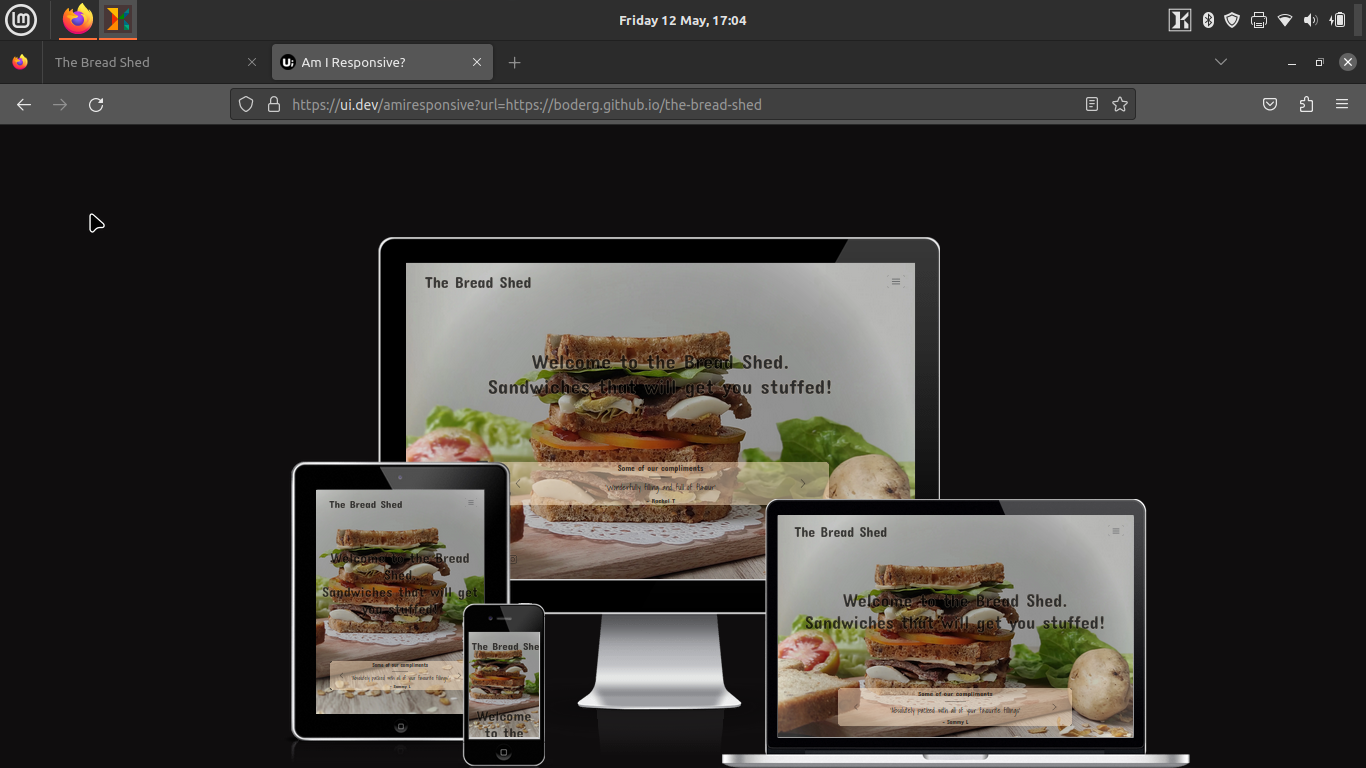
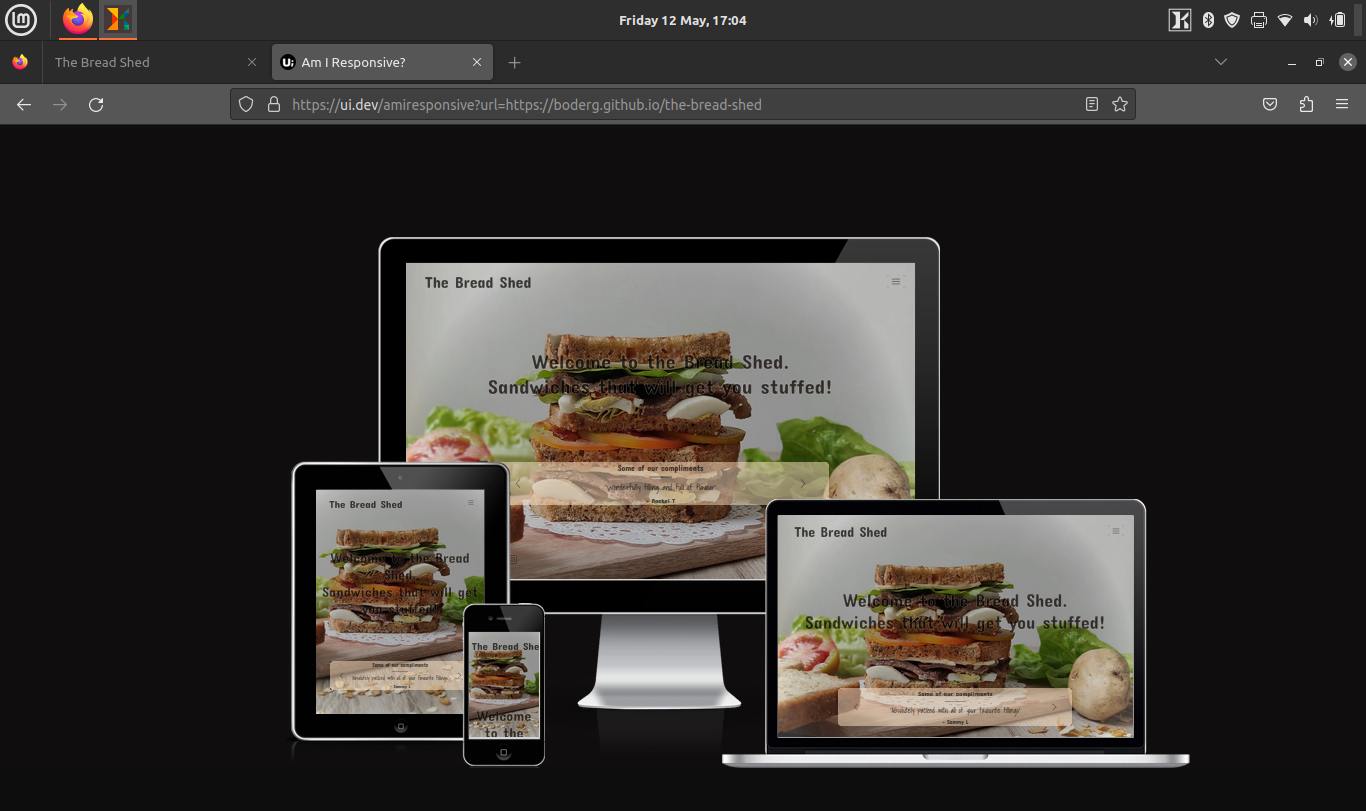
Add overview and screenshots to readme

diff --git a/README.md b/README.md
@@ -1,5 +1,14 @@
 # THE BREAD SHED
 
+- The Bread Shed is sandwich shop that sells homemade sandwiches along with snacks and drinks. 
+- It is a place where anyone can grab a quick bite to eat for breakfast or lunch during their day. 
+- The site is designed so that customers can view the menu and make a decision on what they might like to eat or drink before they arrive at the shop. 
+- The customer can also phone their order through so that it is pre-made and ready for them upon arrival at the store.
+- The Bread Shed website is designed with ease in mind and is divided into menu pages where the food items are seperated by type.
+- The target audience for this website is anyone that is looking for something to eat that is quick and easy to obtain and healthy to eat.
+- Included below are two mockup images of The Bread Shed website.
+
+
 ⚠⚠⚠⚠⚠ START OF NOTES (to be deleted) ⚠⚠⚠⚠⚠
 
 In this section, you will include a few paragraphs providing an overview of your project.
@@ -14,13 +23,10 @@ Consider adding a mockup image using the "Am I Responsive" website.
 Here's your deployed site as an example:
 https://ui.dev/amiresponsive?url=https://boderg.github.io/the-bread-shed
 
-Screenshots for the README and testing should not be inside of `assets/` or `static/` image folders.
-(reminder: `assets/` and `static/` are for files used on the live site, not documentation)
-Consider adding a new folder called `documentation`, and add the amiresponsive screenshot inside of that folder.
-To add the image into your README, use this format:
-(assuming you have a new folder called `documentation` with an image called "mockup.png")
+
 
 ![screenshot](documentation/mockup.png)
+![screenshot](documentation/mockup-dark.png)
 
 Note: Markdown files (.md) should not contain HTML elements like `img`, `br`, `div`, `a`, etc, only Markdown formatting.
 Find out more about using Markdown elements here:
